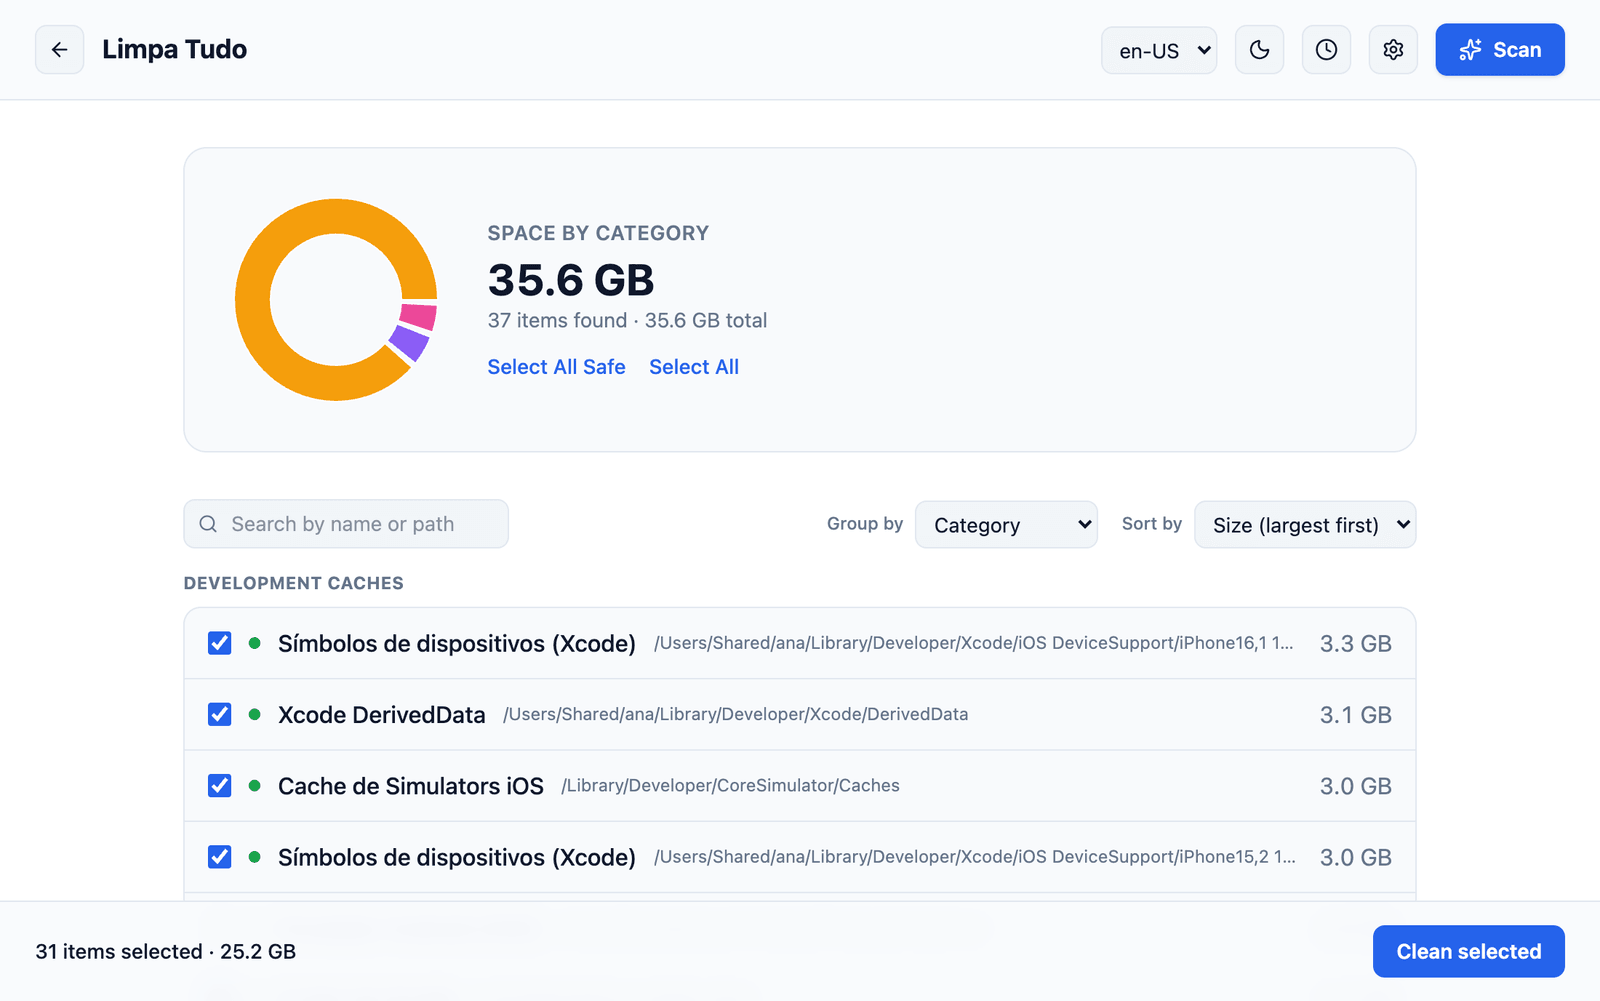
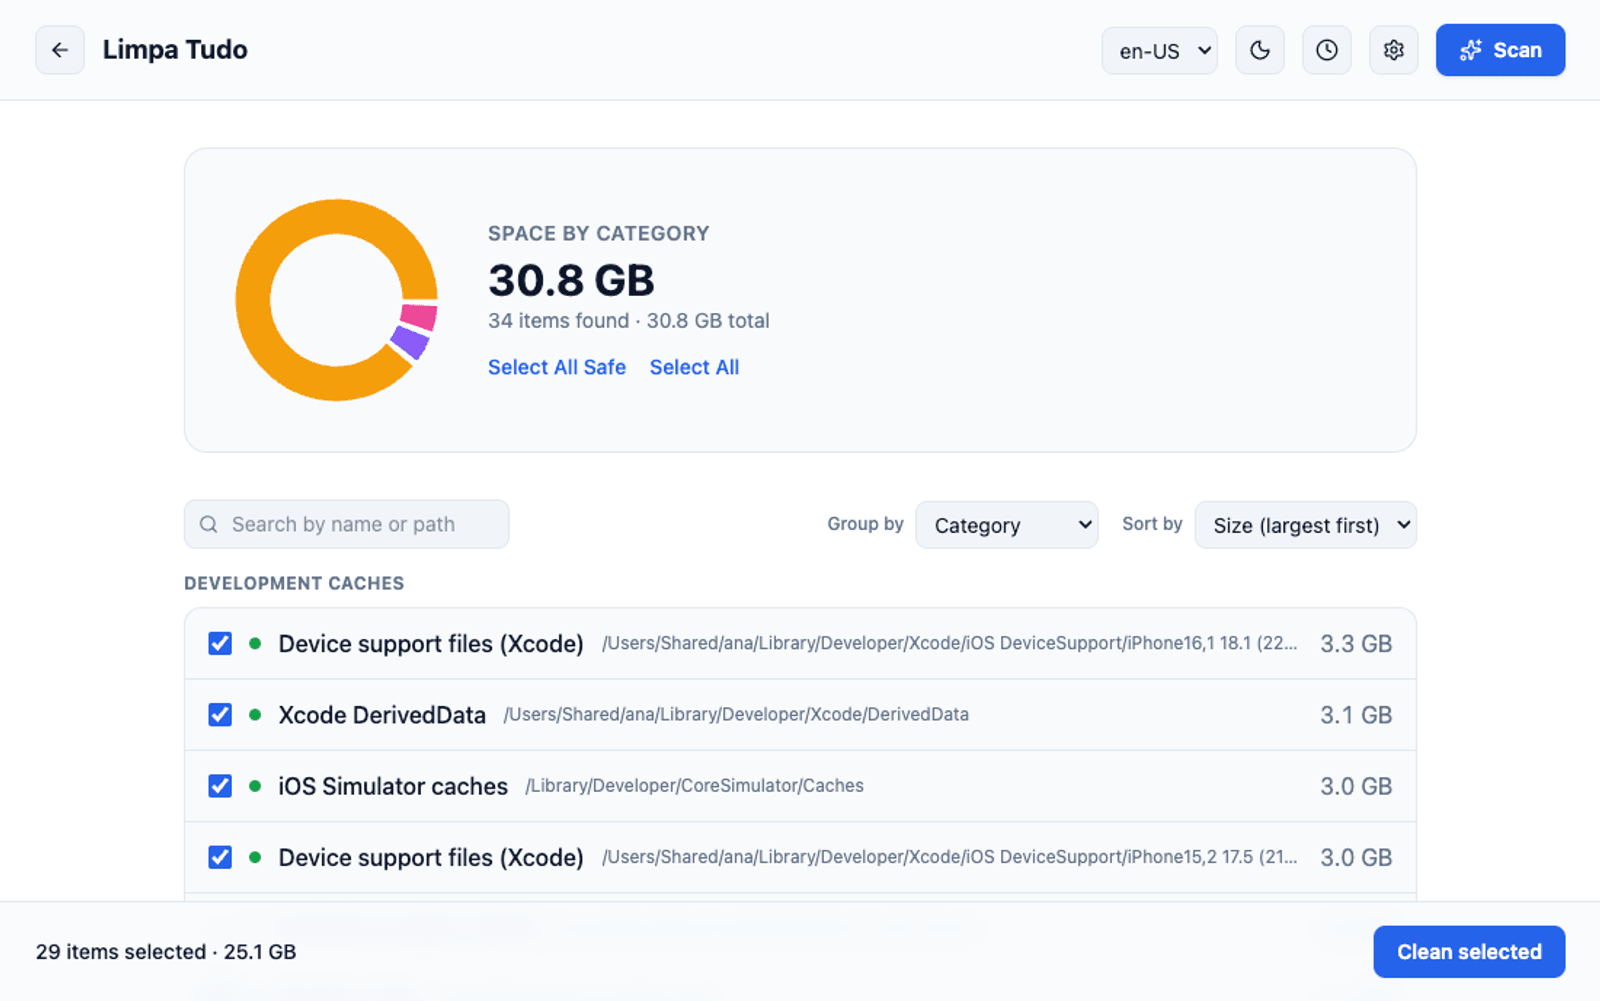
Add a demo GIF and English screenshots with translated item names

diff --git a/docs/09-divulgacao-organica.md b/docs/09-divulgacao-organica.md
@@ -55,15 +55,13 @@ servido pelo repositório `glodzinski-site`). Como foi feito:
 
 **Pendente (fora do repositório ou depende do autor)**
 
-- GIF de 10 s do app. As screenshots já estão em `docs/assets/screenshots/`
-  (capturadas do app real, rodando com uma pasta pessoal de exemplo em
-  `HOME=/Users/Shared/ana`, pela porta de depuração do Electron) e foram usadas
-  no README, na home do site e no metainfo do Flathub.
-- **Corrigido depois das capturas:** com a interface em inglês ou espanhol, os
-  nomes dos itens do catálogo saíam em português. Agora vêm das chaves
-  `catalog.<id>` em `src/i18n/locales/` (o `catalog.json` continua só em pt-BR,
-  que é o padrão). Refazer a captura `scan-en` depois da próxima release, para
-  mostrar os nomes em inglês.
+- Screenshots e GIF (`docs/assets/screenshots/`, incluindo `demo-en.gif`, ~7 s):
+  capturados do app real rodando com uma pasta pessoal de exemplo
+  (`HOME=/Users/Shared/ana`), pela porta de depuração do Electron. Usados no
+  README, na home do site e no metainfo do Flathub.
+- Corrigido nas capturas: os nomes dos itens do catálogo saíam em português com
+  a interface em inglês/espanhol; agora vêm das chaves `catalog.<id>` em
+  `src/i18n/locales/`.
 - Bing Webmaster (pode importar do Search Console).
 - Publicar no AUR (conta + chave SSH), conta e secret do Snapcraft, testar
   o Flatpak. Ao ativar cada canal, ligar a chave

diff --git a/README.md b/README.md
@@ -25,7 +25,7 @@
 </p>
 
 <p align="center">
-  <img src="docs/assets/screenshots/scan-en.png" width="820" alt="Limpa Tudo scan results: developer caches with path, size and risk level" />
+  <img src="docs/assets/screenshots/demo-en.gif" width="820" alt="Limpa Tudo: dashboard, scan, and the list of caches with path, size and risk level" />
 </p>
 
 ---
